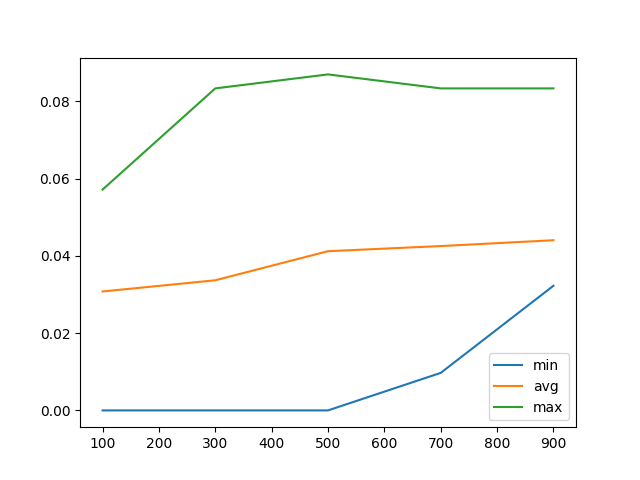
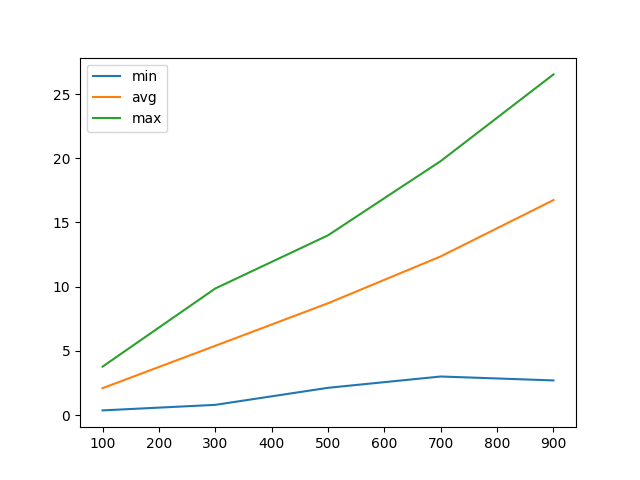
del

diff --git a/assignment2/test.py b/assignment2/test.py
@@ -17,18 +17,19 @@ print(Lb[0])
 def listDeletionTime(n):
     times = np.zeros(1000)
     for i in range(1000):
-        L = list(range(n))
+        li = list(range(n))
         start = time.perf_counter()
-        L.pop(0)
+        while li:
+            li.pop()
         times[i] = time.perf_counter() - start
     return times
 
 def arrayDeletionTime(n):
     times = np.zeros(1000)
     for i in range(1000):
-        A = np.arange(n)
+        arr = np.arange(n)
         start = time.perf_counter()
-        np.delete(A, 0)
+        arr = np.delete(arr, np.s_[:])
         times[i] = time.perf_counter() - start
     return times
 
